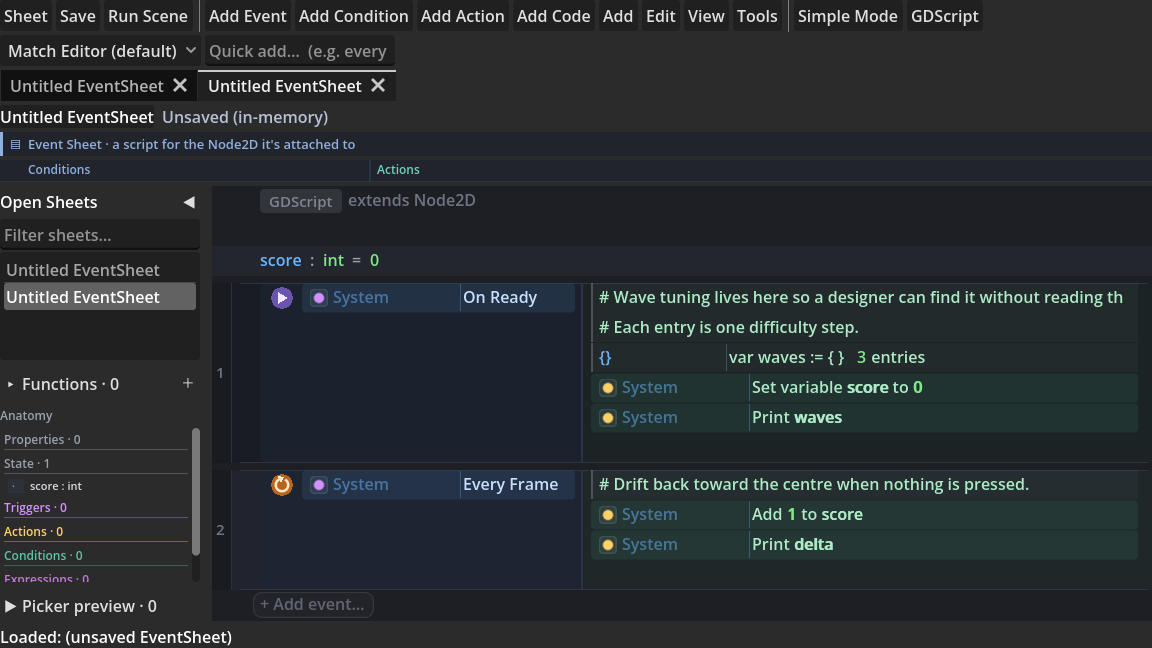
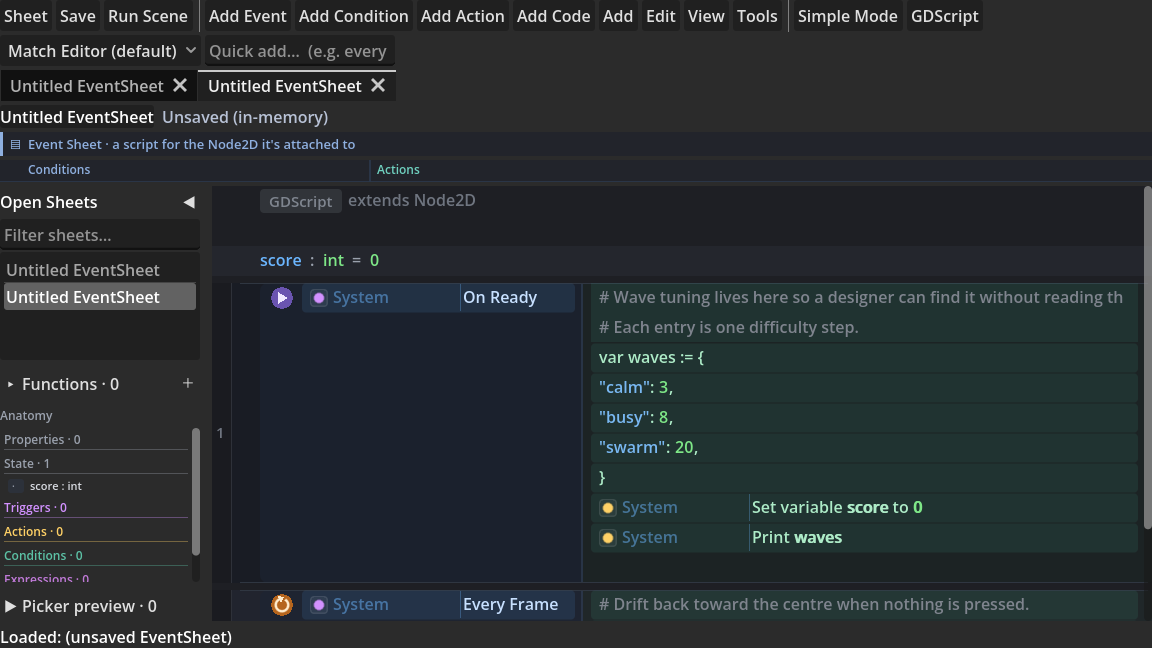
feat(importer): body notes are real comment rows, literal entries are actions
Two follow-ups from using it.

A `#` note inside a function body now lifts to a real CommentRow action -
the same resource a comment authored in the sheet uses - so it drags,
disables and converts like any other comment instead of being a code
block that merely looked like one. Emission writes a comment back as
`<indent># <text>`, so only lines starting with exactly "# " are claimed;
anything it could not reproduce (`#no space`, a `##` doc line) stays
verbatim rather than risk the round-trip.

Collection-literal rows now wear ordinary action chrome: no GDScript
badge, no code cell. Splitting a literal into one row per entry was only
worth doing if the entries then read and behave like the actions around
them, and a table of defaults is data rather than a run of statements.

Suite green, drift 0, doctor clean, and every sample still round-trips
byte-for-byte.

diff --git a/CHANGELOG.md b/CHANGELOG.md
@@ -6,23 +6,33 @@
 
 Two kinds of block are no longer rendered as code, because neither one is logic.
 
-**A run of comments is a note.** It loses the `GDScript` badge and reads as a plain comment -
-including inside a function body, which is where most comments actually live and which was the
-single largest category of code-looking content left after the lift.
+**A run of comments becomes a real comment row.** Inside a function body it lifts to the same
+comment resource a sheet-authored comment uses, so it drags, disables and converts like any other
+comment rather than being a code block that merely looks like one. Comments were the single
+largest category of code-looking content left after the lift. A marker emission cannot reproduce
+exactly (`#no space`, a `##` doc line) stays verbatim rather than risk the round-trip.
 
-**A multi-line collection literal collapses to one row.** A defaults table or a lookup
-dictionary is one *value*, not fifteen statements, so it now reads as
-`var waves := { }  3 entries` behind a `{}` badge. This also fixed a genuine mis-lift: the
-opening line of such a literal was being matched as an ACTION on its own, stranding the entries
-in a separate block below it - the plugin's own annotation table showed as thirty-one orphaned
-strings. A literal is now kept whole, and it is split into a block of its own so the comment
-above it can be recognised as the note it is.
+**A multi-line collection literal becomes one action per entry.** A defaults table inside a
+function arrives as a row for the declaration and a row for each entry, so the entries can be
+read at a glance and dragged into the order you want. Entry rows carry no badge of their own -
+the indentation already says they continue the line above. At file scope, where entries are not
+actions, such a table collapses to a single `const RULES := { }  31 entries` row instead. Entry
+rows wear ordinary action chrome rather than a GDScript badge, because splitting the literal was
+only worth doing if the entries then read and behave like the actions around them.
 
-Both are **pure views**: the block is unchanged, the file still round-trips byte-for-byte, and
-double-click still opens the code editor on the real lines. The collapse is deliberately fussy
-about what it will hide - a wrapped function call (a bare `(` opens arguments, not a value), a
-literal with a statement after it, and one with a comment above its head all keep their full
-code rendering, because in each of those cases something other than the value would vanish.
+This also fixed a genuine mis-lift: the opening line of such a literal was being matched as an
+ACTION on its own, stranding the entries in a separate block below it - the plugin's own
+annotation table showed as thirty-one orphaned strings, which was the largest single category
+of in-body code left after the lift. The literal is now recognised whole, then split at its own
+line boundaries, which is also what lets the comment above it be seen as the note it is.
+
+Saving an untouched file still reproduces it byte-for-byte: comment notes are a pure view over an
+unchanged block, and splitting a literal into per-entry rows is safe because consecutive code
+rows re-emit by appending their lines in order. Double-click still opens the code editor on the
+real lines. Recognising a literal is deliberately fussy - a wrapped function call (a bare `(`
+opens arguments, not a value), a literal with a statement after it, and one with a comment above
+its head are all left as ordinary code, because in each of those cases something other than the
+value would be affected.
 
 ### Fixed - hand-written GDScript now actually opens as rows
 

diff --git a/docs/GUIDE-USING-WITH-EXISTING-CODE.md b/docs/GUIDE-USING-WITH-EXISTING-CODE.md
@@ -318,20 +318,26 @@ code, try it again.
 
 Two kinds of block are no longer shown as code at all, because neither one is logic:
 
-- **A run of comments is a note.** It loses the `GDScript` badge and reads as a plain comment, wherever
-  it sits - including inside a function body, which is where most comments actually live.
-- **A multi-line collection literal collapses to one row.** A defaults table or a lookup dictionary is a
-  single *value*, not fifteen statements, so it shows as `var waves := { }  3 entries` with a `{}` badge.
+- **A run of comments becomes a real comment row.** Inside a function body it lifts to the same comment
+  resource a sheet-authored comment uses, so it drags, disables and converts like any other comment - not a
+  code block that merely looks like one. (A marker emission cannot reproduce exactly, such as `#no space`,
+  stays verbatim rather than risk the round-trip.)
+- **A multi-line collection literal becomes one action per entry.** A defaults table arrives as a row for
+  the declaration and a row for each entry, each with ordinary action chrome rather than a GDScript badge,
+  so you can read them at a glance and drag them into the order you want. (At file scope, where entries are
+  not actions, such a table still collapses to a single `const RULES := { }  31 entries` row instead.)
 
 <img src="images/block-views-before.png" alt="Before: a function body showing a GDScript badge over two comment lines, a System action for the opening line of a dictionary, and the dictionary entries stranded in a separate code block." width="720">
 
-<img src="images/block-views-after.png" alt="After: the same body with the comments shown as plain notes, the whole dictionary collapsed to one row reading var waves := { } 3 entries, and the remaining statements as Set variable and Print action rows." width="720">
+<img src="images/block-views-after.png" alt="After: the same body with the comments shown as plain notes, the dictionary declaration and each of its three entries on their own action rows, and the remaining statements as Set variable and Print action rows." width="720">
 
-Both are **pure views**: the block itself is untouched, so the file still round-trips byte-for-byte and
-double-click still opens the code editor on the real lines. The collapse is deliberately fussy about what
-it will hide - a wrapped function call, a literal with a statement after it, or one with a comment above
-its head all keep their full code rendering, because in those cases something other than the value would
-be hidden.
+Both keep the file byte-for-byte identical when you save it untouched: comment notes are a pure view over
+an unchanged block, and splitting a literal into per-entry rows is safe because consecutive code rows
+re-emit by appending their lines in order. Double-click any row to open the code editor on the real lines.
+
+Recognising a literal is deliberately fussy - a wrapped function call (a bare `(` opens arguments, not a
+value), a literal with a statement after it, and one with a comment above its head are all left as ordinary
+code, because in each of those cases something other than the value would be affected.
 
 On real code the effect compounds. Here is the plugin's own semantic analyzer, whose annotation table is
 31 entries long:
